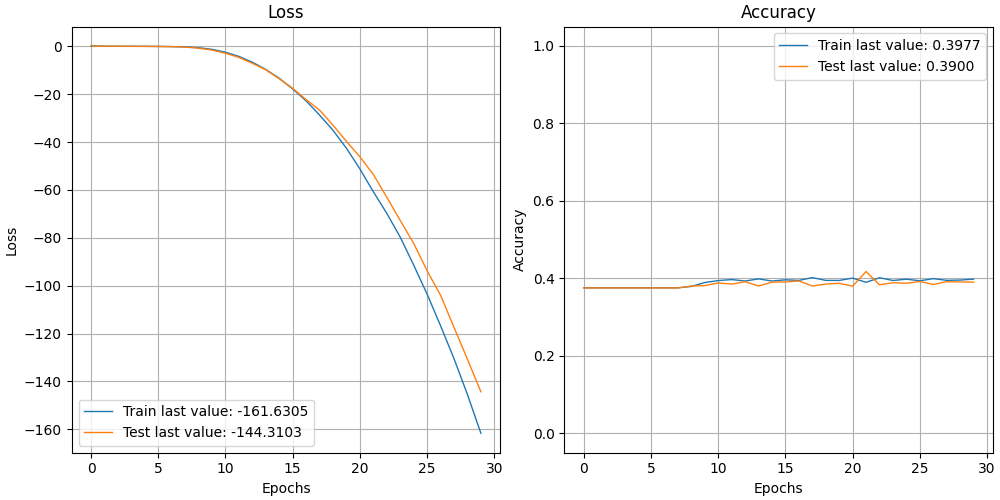
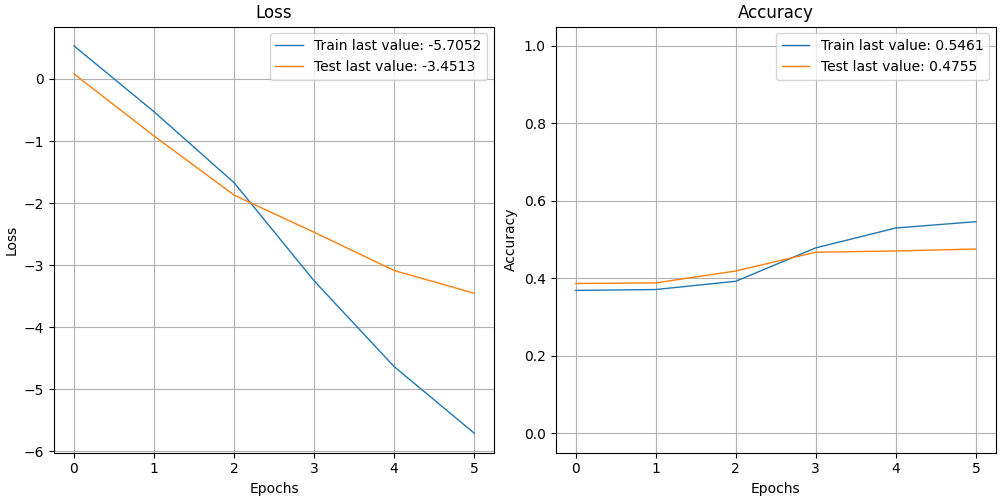
add new model

diff --git a/code/lstm_clf.py b/code/lstm_clf.py
@@ -1,4 +1,82 @@
-class Lstm():
+from read_data import Read_data
+from helper import Helper
+from layers import Layers
 
-	
+import matplotlib.pyplot as plt
 
+from tensorflow.keras.preprocessing.sequence import pad_sequences
+from keras.layers import Input, Embedding, Dense, LSTM, Dropout
+from keras.models import Model
+from plot_keras_history import plot_history
+from pandas import DataFrame
+from sklearn.metrics import classification_report
+import numpy as np
+
+
+class Lstm_clf():
+
+	def build_lstm(self, data):
+
+		re = Read_data()
+		l = Layers()
+		h = Helper()
+		word2idx = re.prepare_data(data)
+		MAX_LENGHT = 200
+
+		X_train, X_test, y_train, y_test = l.tokenise(data, MAX_LENGHT)
+
+		print('Length of sample train_data after preprocessing:', len(X_train[0]))
+		print('Sample train data:', X_train[0])
+
+		EMBED_SIZE = 100
+		VOCAB_SIZE = len(word2idx)
+
+		# create the input layer
+		in_layer = Input((MAX_LENGHT,), dtype='int32')
+
+		# add the embedding layer
+		emb_layer = Embedding(VOCAB_SIZE, EMBED_SIZE, mask_zero=True, input_length = MAX_LENGHT)(in_layer)
+
+		# add first dropout layer
+		drop_1 = Dropout(0.5)(emb_layer)
+
+		# add LSTM
+		# return_sequences is already FALSE as default
+		lstm_layer = LSTM(100)(drop_1)
+
+		# add first dropout layer
+		drop_2 = Dropout(0.5)(lstm_layer)
+
+		# add dense layer
+		dense_layer = Dense(1, 'sigmoid')(lstm_layer)
+
+		# compile the model
+		model = Model(in_layer, dense_layer)
+
+		model.compile(optimizer='adam', loss='binary_crossentropy', metrics = ['accuracy'])
+
+		model.summary()
+
+		history = model.fit(X_train, y_train, epochs=6, batch_size=1000, validation_data=(X_test, y_test))
+
+		pred = model.predict(X_test)
+		results = model.evaluate(X_test, y_test)
+		labels = h.get_labels()
+
+		report = classification_report(y_test, np.argmax(pred, axis=1), target_names=labels)
+		print(report)
+		h.write_report(report)
+		h.plot_acc(history, X_train, y_train, op = 'normal')
+		print('test_loss:', results[0], 'test_accuracy:', results[1])
+
+		# get the embedding layer
+		word_embeddings = model.get_layer('embedding').get_weights()[0]
+
+		print('Shape of word_embeddings:', word_embeddings.shape)
+
+		idx2word = re.get_idx2word(word2idx)
+		print(DataFrame(word_embeddings, index=idx2word.values()).head(10))
+
+		h.plot_tsne(word_embeddings, idx2word)
+
+		return model

diff --git a/code/layers.py b/code/layers.py
@@ -53,20 +53,20 @@ from plot_keras_history import plot_history
 
 class Layers():
 
-	def tokenise(self, data):
+	def tokenise(self, data, max_len):
 
 		re = Read_data()
 
 		X_train, X_test, y_train, y_test = re.train_test_data(data)
 
 		#preprocess 
-		tokenizer = Tokenizer(num_words=1000, oov_token= "<OOV>")
+		tokenizer = Tokenizer(num_words=10000, oov_token= "<OOV>")
 		tokenizer.fit_on_texts(X_train)
 		word_index = tokenizer.word_index
 		X_train = tokenizer.texts_to_sequences(X_train)
-		X_train = pad_sequences(X_train, maxlen=120, padding='post', truncating='post')
+		X_train = pad_sequences(X_train, maxlen=max_len, padding='pre', truncating='post')
 		X_test = tokenizer.texts_to_sequences(X_test)
-		X_test = pad_sequences(X_test, maxlen=120, padding='post', truncating='post')
+		X_test = pad_sequences(X_test, maxlen=max_len, padding='pre', truncating='post')
 
 		# convert lists into numpy arrays to make it work with TensorFlow 
 		X_train = np.array(X_train)
@@ -84,7 +84,7 @@ class Layers():
 		print("[INFO] training network...")
 		h.write_report(f"The size of this dataset is %.1f" % len(data))
 
-		X_train, X_test, y_train, y_test = self.tokenise(data)
+		X_train, X_test, y_train, y_test = self.tokenise(data, 120)
 
 		model = tf.keras.Sequential([
 		    tf.keras.layers.Embedding(1000, 64, input_length=120),

diff --git a/code/read_data.py b/code/read_data.py
@@ -7,6 +7,7 @@ import numpy as np
 import pandas as pd
 import os
 import glob
+import collections
 
 from sklearn.model_selection import train_test_split
 
@@ -29,6 +30,7 @@ class Read_data():
 		data = data.iloc[:20000]
 
 		return data
+
 
 	def get_articles(self):
 
@@ -62,6 +64,55 @@ class Read_data():
 			data = self.get_articles()
 
 			return data
+
+	def return_freq(self, text):
+
+		# create a temporary list that includes all words
+		freq_list = []
+		word_list = []
+
+		for row in text:
+
+			#print(row)
+			row = row.split()
+
+			for word in row:
+				#if word not in word_list:
+				word_list.append(word)
+
+		counter = collections.Counter(word_list)
+
+		words = list(counter.keys())
+		freq = list(counter.values())
+
+		freqq = ['']*len(text)
+		textt = pd.DataFrame()
+		textt['freq'] = freqq
+		c = 0
+
+		for row in text:
+
+			#print(row)
+			row = row.split()
+			freqs = []
+
+			for word in row:
+
+				if word in words:
+
+					fr = counter.get(word)
+					freqs.append(fr)
+
+			#print(freqs)
+			textt.loc[c, 'freq'] = freqs	
+
+			c += 1
+
+		textt = textt['freq'].to_list()
+		#text.drop(columns='tokenised')
+
+		return textt
+
 
 	def prepare_data(self, text):
 

diff --git a/code/main.py b/code/main.py
@@ -9,6 +9,7 @@ from helper import Helper
 #from evaluating import Evaluating
 from layers import Layers
 from skip import Skip
+from lstm_clf import Lstm_clf
 
 import os
 
@@ -25,6 +26,7 @@ if __name__ == '__main__':
 		he = Helper()
 		#ev = Evaluating()
 		sk = Skip()
+		lstm = Lstm_clf()
 		la = Layers()
 		a = Args()
 		args = a.parse_arguments()
@@ -33,7 +35,8 @@ if __name__ == '__main__':
 		data = re.return_data()
 			
 		#model, vector, tain_score, test_score = bu.build_net(data)
-		model = sk.create_train(data[:2000])
+		#model = sk.create_train(data[:1000])
+		model = lstm.build_lstm(data)
 
 		#if (args["optimiser"] == 'boost'):
 

diff --git a/code/helper.py b/code/helper.py
@@ -11,6 +11,7 @@ import collections
 import nltk
 import seaborn as sns
 from sklearn.manifold import TSNE
+import numpy as np
 
 class Helper():
 

diff --git a/reports/report_20230726-2049.md b/reports/report_20230726-2049.md
@@ -1,0 +1,10 @@
+![](../plots/plot_freq_20230726-2049.png)
+The size of this dataset is 1000.0
+Number of unique words: 3261
+
+Sample word2idx: [('house', 0), ('republican', 1), ('fret', 2), ('winning', 3), ('health', 4), ('care', 5), ('suit', 6), ('rift', 7), ('officer', 8), ('resident', 9)]
+
+Sample idx2word: [(0, 'house'), (1, 'republican'), (2, 'fret'), (3, 'winning'), (4, 'health'), (5, 'care'), (6, 'suit'), (7, 'rift'), (8, 'officer'), (9, 'resident')]
+
+Sample sents_as_id: [[0, 1, 2, 3, 4, 5, 6], [7, 8, 9, 10, 11, 12, 13], [14, 15, 16, 17, 18, 19, 20, 21], [22, 23, 24, 25, 26, 27], [28, 29, 30, 31, 32, 33, 34, 35, 36], [37, 38, 39, 40, 41, 42, 43, 44], [45, 46, 47, 48, 49, 50], [51, 52, 53, 54, 55, 56, 57, 58], [59, 60, 61], [62, 63, 64, 65, 66]]
+None

diff --git a/reports/report_20230726-2051.md b/reports/report_20230726-2051.md
@@ -1,0 +1,10 @@
+![](../plots/plot_freq_20230726-2051.png)
+The size of this dataset is 1000.0
+Number of unique words: 3261
+
+Sample word2idx: [('house', 0), ('republican', 1), ('fret', 2), ('winning', 3), ('health', 4), ('care', 5), ('suit', 6), ('rift', 7), ('officer', 8), ('resident', 9)]
+
+Sample idx2word: [(0, 'house'), (1, 'republican'), (2, 'fret'), (3, 'winning'), (4, 'health'), (5, 'care'), (6, 'suit'), (7, 'rift'), (8, 'officer'), (9, 'resident')]
+
+Sample sents_as_id: [[0, 1, 2, 3, 4, 5, 6], [7, 8, 9, 10, 11, 12, 13], [14, 15, 16, 17, 18, 19, 20, 21], [22, 23, 24, 25, 26, 27], [28, 29, 30, 31, 32, 33, 34, 35, 36], [37, 38, 39, 40, 41, 42, 43, 44], [45, 46, 47, 48, 49, 50], [51, 52, 53, 54, 55, 56, 57, 58], [59, 60, 61], [62, 63, 64, 65, 66]]
+None

diff --git a/reports/report_20230726-2052.md b/reports/report_20230726-2052.md
@@ -1,0 +1,10 @@
+![](../plots/plot_freq_20230726-2052.png)
+The size of this dataset is 1000.0
+Number of unique words: 3261
+
+Sample word2idx: [('house', 0), ('republican', 1), ('fret', 2), ('winning', 3), ('health', 4), ('care', 5), ('suit', 6), ('rift', 7), ('officer', 8), ('resident', 9)]
+
+Sample idx2word: [(0, 'house'), (1, 'republican'), (2, 'fret'), (3, 'winning'), (4, 'health'), (5, 'care'), (6, 'suit'), (7, 'rift'), (8, 'officer'), (9, 'resident')]
+
+Sample sents_as_id: [[0, 1, 2, 3, 4, 5, 6], [7, 8, 9, 10, 11, 12, 13], [14, 15, 16, 17, 18, 19, 20, 21], [22, 23, 24, 25, 26, 27], [28, 29, 30, 31, 32, 33, 34, 35, 36], [37, 38, 39, 40, 41, 42, 43, 44], [45, 46, 47, 48, 49, 50], [51, 52, 53, 54, 55, 56, 57, 58], [59, 60, 61], [62, 63, 64, 65, 66]]
+None

diff --git a/reports/report_20230726-2243.md b/reports/report_20230726-2243.md
@@ -1,0 +1,12 @@
+              precision    recall  f1-score   support
+
+    Negative       0.00      0.00      0.00      1310
+    Positive       0.39      1.00      0.56      1546
+     Neutral       0.00      0.00      0.00      1144
+
+    accuracy                           0.39      4000
+   macro avg       0.13      0.33      0.19      4000
+weighted avg       0.15      0.39      0.22      4000
+
+![](../plots/plot_acc_20230726-2243.png)
+![](../plots/tsne_20230726-2243.png)

diff --git a/reports/report_20230726-2216.md b/reports/report_20230726-2216.md
@@ -1,0 +1,1 @@
+![](../plots/tsne_20230726-2216.png)
